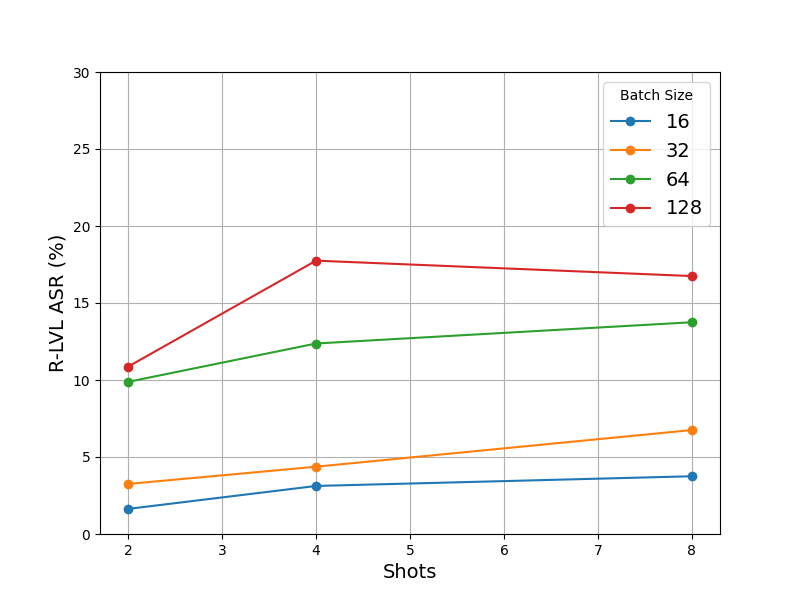
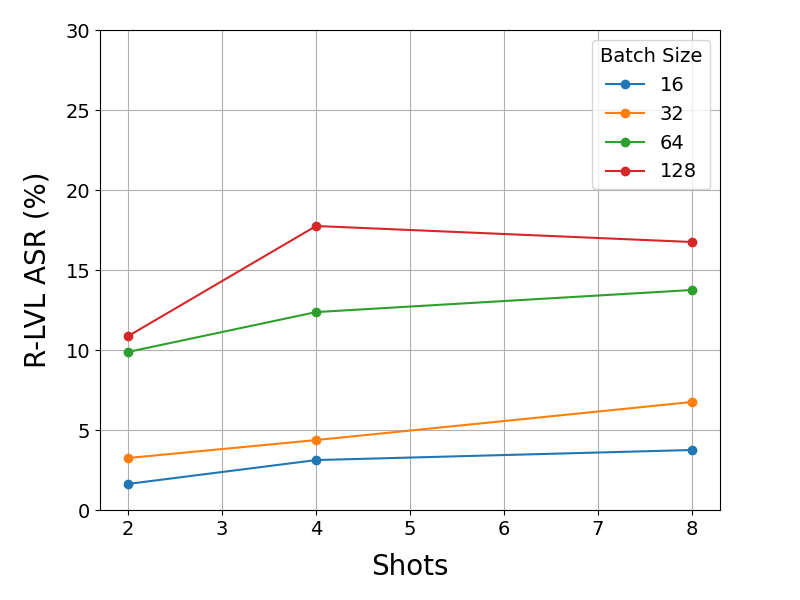
Update

diff --git a/src/get_data_visualization.py b/src/get_data_visualization.py
@@ -26,14 +26,16 @@ def ablation_0():
 
     plt.figure(figsize=(8, 6))
     plt.ylim(0, 30)
+    plt.subplots_adjust(top=0.95, bottom=0.15)
+    plt.tick_params(axis="both", labelsize=14)
 
     for i, line in enumerate(asr_list):
         plt.plot(num_shots_list, line, marker="o", label=labels[i])
 
-    plt.xlabel("Shots", fontsize=14)
-    plt.ylabel("R-LVL ASR (%)", fontsize=14)
+    plt.xlabel("Shots", fontsize=20, labelpad=10)
+    plt.ylabel("R-LVL ASR (%)", fontsize=20, labelpad=10)
 
-    plt.legend(title="Batch Size", loc="upper right", fontsize=14)
+    plt.legend(title="Batch Size", loc="upper right", fontsize=14, title_fontsize=14)
 
     plt.grid(True)
     plt.show()
@@ -63,14 +65,16 @@ def ablation_1():
 
     plt.figure(figsize=(8, 6))
     plt.ylim(0, 100)
+    plt.subplots_adjust(top=0.95, bottom=0.15)
+    plt.tick_params(axis="both", labelsize=14)
 
     for i, line in enumerate(asr_list):
         plt.plot(num_shots_list, line, marker="o", label=labels[i])
 
-    plt.xlabel("Shots", fontsize=14)
-    plt.ylabel("S-LVL ASR (%)", fontsize=14)
+    plt.xlabel("Shots", fontsize=20, labelpad=10)
+    plt.ylabel("S-LVL ASR (%)", fontsize=20, labelpad=10)
 
-    plt.legend(title="Batch Size", loc="upper right", fontsize=14)
+    plt.legend(title="Batch Size", loc="upper right", fontsize=14, title_fontsize=14)
 
     plt.grid(True)
     plt.show()
@@ -99,14 +103,16 @@ def ablation_2():
     
     plt.figure(figsize=(8, 6))
     plt.ylim(5, 20)
+    plt.subplots_adjust(top=0.95, bottom=0.15)
+    plt.tick_params(axis="both", labelsize=14)
     
     for i, line in enumerate(asr_list):
         plt.plot(num_shots_list, line, marker="o", label=labels[i])
 
-    plt.xlabel("Shots", fontsize=14)
-    plt.ylabel("R-LVL ASR (%)", fontsize=14)
+    plt.xlabel("Shots", fontsize=20, labelpad=10)
+    plt.ylabel("R-LVL ASR (%)", fontsize=20, labelpad=10)
 
-    plt.legend(title="Similarity", loc="upper right", fontsize=14)
+    plt.legend(title="Similarity", loc="upper right", fontsize=14, title_fontsize=14)
 
     plt.grid(True)
     plt.show()
@@ -135,14 +141,16 @@ def ablation_3():
     
     plt.figure(figsize=(8, 6))
     plt.ylim(30, 80)
+    plt.subplots_adjust(top=0.95, bottom=0.15)
+    plt.tick_params(axis="both", labelsize=14)
     
     for i, line in enumerate(asr_list):
         plt.plot(num_shots_list, line, marker="o", label=labels[i])
 
-    plt.xlabel("Shots", fontsize=14)
-    plt.ylabel("S-LVL ASR (%)", fontsize=14)
+    plt.xlabel("Shots", fontsize=20, labelpad=10)
+    plt.ylabel("S-LVL ASR (%)", fontsize=20, labelpad=10)
 
-    plt.legend(title="Similarity", loc="upper right", fontsize=14)
+    plt.legend(title="Similarity", loc="upper right", fontsize=14, title_fontsize=14)
 
     plt.grid(True)
     plt.show()
@@ -176,7 +184,7 @@ def perplexity_0():
         data_list.append(data)
     
     fig, ax = plt.subplots(1, 1, figsize=(8, 6))
-    plt.subplots_adjust(left=0.25)
+    plt.subplots_adjust(left=0.25, top=0.95, bottom=0.15)
 
     ax.boxplot(
         data_list,
@@ -190,13 +198,13 @@ def perplexity_0():
     
     plt.xscale("log")
 
-    ax.set_xlabel("Perplexity", fontsize=14)
+    ax.set_xlabel("Perplexity", fontsize=20, labelpad=10)
     ax.set_yticklabels(label_list, fontsize=14)
     ax.tick_params(axis="x", labelsize=14)
     ax.tick_params(axis="y", pad=60)
     
     for label in ax.get_yticklabels():
-        label.set_horizontalalignment('center')
+        label.set_horizontalalignment("center")
 
     plt.show()
     
@@ -229,7 +237,7 @@ def perplexity_1():
         data_list.append(data)
     
     fig, ax = plt.subplots(1, 1, figsize=(8, 6))
-    plt.subplots_adjust(left=0.25)
+    plt.subplots_adjust(left=0.25, top=0.95, bottom=0.15)
 
     ax.boxplot(
         data_list,
@@ -243,13 +251,13 @@ def perplexity_1():
     
     plt.xscale("log")
 
-    ax.set_xlabel("Windowed Perplexity", fontsize=14)
+    ax.set_xlabel("Windowed Perplexity", fontsize=20, labelpad=10)
     ax.set_yticklabels(label_list, fontsize=14)
     ax.tick_params(axis="x", labelsize=14)
     ax.tick_params(axis="y", pad=60)
     
     for label in ax.get_yticklabels():
-        label.set_horizontalalignment('center')
+        label.set_horizontalalignment("center")
     
     plt.show()
     
@@ -257,4 +265,4 @@ def perplexity_1():
 
 
 if __name__ == "__main__":
-    ablation_1()
+    perplexity_1()
